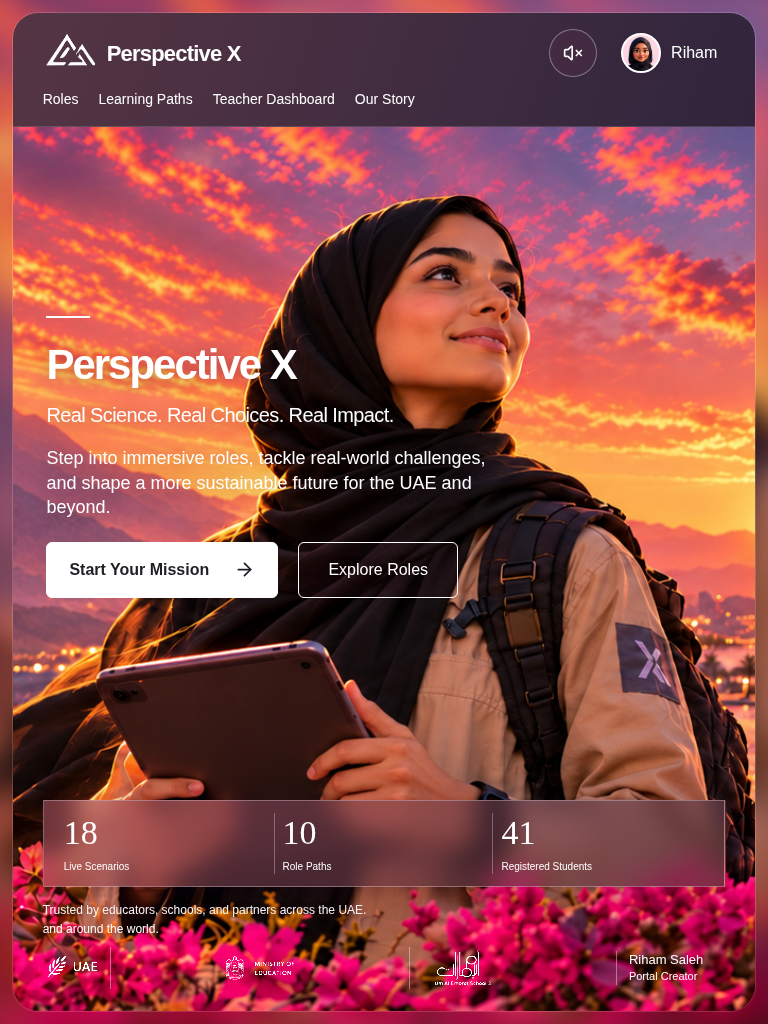
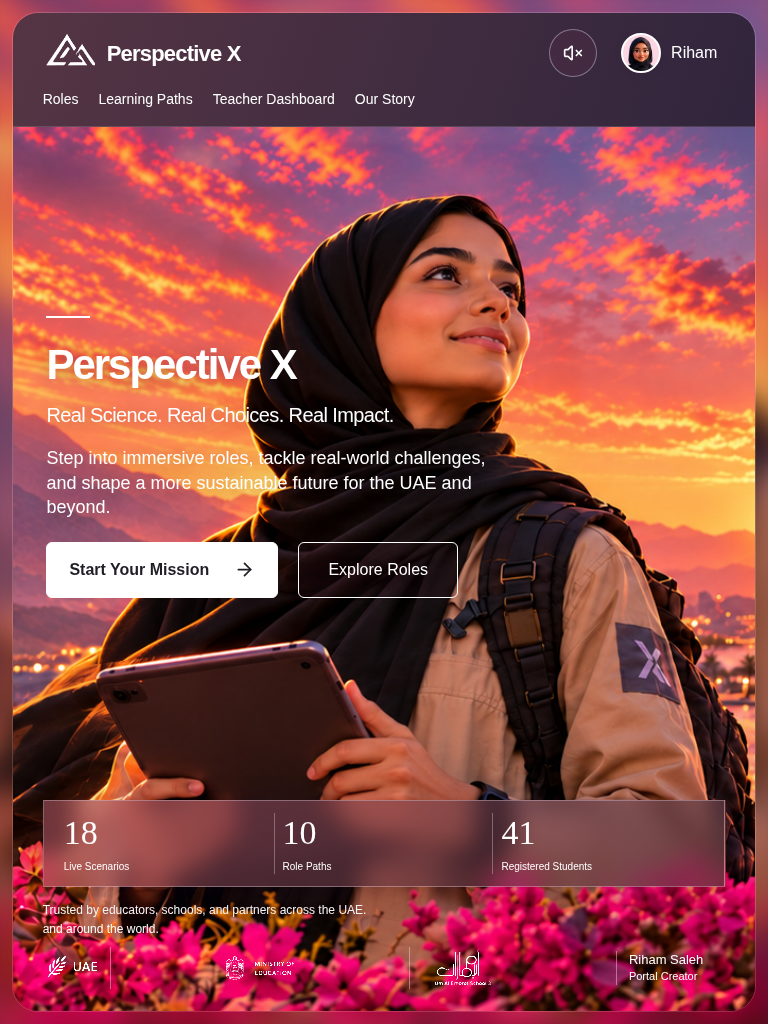
Clean remaining fine strands around the hijab and scarf

diff --git a/src/components/landing/homepage.css b/src/components/landing/homepage.css
@@ -55,7 +55,7 @@
   inset: -24px;
   z-index: -1;
   pointer-events: none;
-  background: url("/images/perspective/home-hijab-retouched.png") center 75% /
+  background: url("/images/perspective/home-hijab-clean.png") center 75% /
     cover no-repeat;
   filter: blur(16px);
 }
@@ -181,7 +181,7 @@
   min-height: 0;
   display: flex;
   flex-direction: column;
-  background: url("/images/perspective/home-hijab-retouched.png") center
+  background: url("/images/perspective/home-hijab-clean.png") center
     center/cover no-repeat;
 }
 .px-home .home-hero {

diff --git a/src/components/landing/homeReferenceScene.js b/src/components/landing/homeReferenceScene.js
@@ -1,7 +1,7 @@
 // Lossless, detail-restored photographic layer from the October 14 reference.
 // Conservative masks stay entirely in the sky, above the hijab, sun and buildings.
 export const HOME_REFERENCE_SCENE = {
-  url: "/images/perspective/home-hijab-retouched.png",
+  url: "/images/perspective/home-hijab-clean.png",
   source: { width: 1888, height: 833 },
   regions: [
     {

diff --git a/tests/cinematic-motion.spec.js b/tests/cinematic-motion.spec.js
@@ -458,7 +458,7 @@ test("leaving while the artwork is loading cancels late renderer initialization"
   const gate = new Promise((resolve) => {
     release = resolve;
   });
-  await page.route("**/home-hijab-retouched.png", async (route) => {
+  await page.route("**/home-hijab-clean.png", async (route) => {
     await gate;
     await route.continue();
   });

diff --git a/docs/homepage-retouch/README.md b/docs/homepage-retouch/README.md
@@ -1,22 +1,33 @@
-# Localized homepage flyaway cleanup
+# Homepage strand cleanup
 
-Removed the thin golden flyaway hair lines from the approved hijab artwork. The edit uses the image tool's cleaned result only inside two small, feathered selections beside the scarf and above/alongside the head. All pixels outside those selections are copied from the original photograph without alteration. The face, body, and tablet have additional explicit protection from the selections.
+The active homepage image is `public/images/perspective/home-hijab-clean.png`. It removes the remaining fine curls and shiny hair-like lines above the crown, beside the forehead and temple, over the back of the hijab, and across the lower scarf. The earlier broad flyaway cleanup is retained. Continuous light along actual fabric edges and the original cloth folds remain visible.
 
-- [Before detail](before-detail.png)
-- [After detail](after-detail.png)
-- [Retouch selection mask](selection-mask.png) — white permits editing; black preserves the original.
-- Homepage comparisons: [desktop before](before-home-desktop.png) / [after](../homepage-reference/home-1672x941.png), [tablet before](before-home-tablet.png) / [after](../homepage-reference/home-768x1024.png), [mobile before](before-home-mobile.png) / [after](../homepage-reference/home-390x844.png).
-- [All updated homepage screenshots](../homepage-reference/README.md)
+## Before and after
 
-The final image remains a lossless **1888 × 833** PNG. Exactly **70,569 of 1,572,704** pixels differ, all within the two selected areas. There are **zero** changed pixels outside the selections. The face, body, and tablet protection areas are pixel-identical. The new unit regression checks these constraints and bounds the permitted mask regions so that expanding a mask across the portrait or scene cannot silently pass.
+- [Head before](before-head-detail.png) / [head after](after-head-detail.png)
+- [Original broad flyaways](before-detail.png) / [current scarf detail](after-detail.png)
+- Homepage: [desktop before](before-home-desktop.png) / [after](../homepage-reference/home-1672x941.png), [tablet before](before-home-tablet.png) / [after](../homepage-reference/home-768x1024.png), [mobile before](before-home-mobile.png) / [after](../homepage-reference/home-390x844.png).
+- [All current homepage screenshots](../homepage-reference/README.md)
 
-The previous master and `public/images/perspective/home-cinematic.webp` remain unchanged. The new asset has a new filename so cached versions of the old artwork cannot hide the cleanup. Both the CSS background and existing cloud renderer use the same retouched image. Cloud masks, animation settings, soundtrack, layout, typography, branding, account details, navigation, and every other page are unchanged by this follow-up.
+## Exact preservation
+
+The image tool retouched close-ups of the head and scarf. Only selected corrections were composited onto the previous full photograph. The result remains a lossless **1888 × 833** PNG. In this correction, **88,055 of 1,572,704** pixels change relative to `home-hijab-retouched.png`. There are **zero** changes outside the selected areas and **zero** changes within the protected original face. The body and tablet are also protected by the regression checks.
+
+The face protection follows its actual outline; the earlier rectangular protection had also excluded nearby background containing faint strands. All original facial pixels are retained, while the nearby hair artifacts can now be cleaned. Additional selections remove fine lines lying over dark fabric without replacing the whole portrait.
+
+- [Current correction selections](remaining-strands-selection-mask.png)
+- [Protected original face](protected-face-mask.png)
+- [Head selections](head-selection-mask.png)
+- [Scarf selections](scarf-selection-mask.png)
+- [Earlier broad cleanup selections](selection-mask.png)
+
+Original images remain unchanged, including the previous masters and `public/images/perspective/home-cinematic.webp`. A new active filename prevents old cached artwork from hiding this correction. Both the CSS scene and existing cloud renderer use the same corrected photograph. This follow-up does not change cloud masks, animation settings, soundtrack, layout, typography, branding, account details, navigation, or any other page.
 
 ## Validation
 
 - Production build, lint, and typecheck passed.
-- All 19 unit tests passed, including exact pixel preservation and the existing original-artwork hash check.
-- All 69 existing browser regression tests passed for cloud motion, viewport fit, navigation, soundtrack, account behavior, Our Story, and approved internal pages.
-- Browser screenshots use synthetic account fixtures; live authenticated Supabase QA remains unverified.
+- All 20 unit tests passed, including both pixel-preservation checks, protected face/body/tablet checks, permitted selection bounds, and the original-artwork hash check.
+- All 69 browser regression tests passed for cloud motion, viewport fit, navigation, soundtrack, account behavior, Our Story, and approved internal pages.
+- Browser screenshots use synthetic accounts; live authenticated Supabase QA remains unverified.
 
-Changes remain on the existing development branch and pull request for Preview review. No production deployment is authorized by this follow-up.
+The changes are on the development branch and existing pull request for Preview review. Production is unchanged.

diff --git a/docs/homepage-reference/README.md b/docs/homepage-reference/README.md
@@ -19,14 +19,14 @@ Captured from the production build at 100% browser zoom, with reduced motion and
 
 ## Artwork quality and display resolution
 
-The restored scenic master is a lossless 1888 × 833 PNG with refined cloud, landscape, cloth, and flower detail. The active version also includes a [localized flyaway cleanup](../homepage-retouch/README.md) that preserves every pixel outside two small retouch selections, with explicit protection for the face, body, and tablet. This is the image tool's output resolution; it is not a native 4K photograph. Text, controls, and layout remain native browser elements that render at the display's pixel density. The original 1448 × 1086 approved PNG supplies the exact branding marks without additional lossy compression. Original artwork files remain available.
+The restored scenic master is a lossless 1888 × 833 PNG with refined cloud, landscape, cloth, and flower detail. The active version also includes a [localized flyaway cleanup](../homepage-retouch/README.md) that preserves every pixel outside the localized head/scarf corrections, with explicit protection for the original face, body, and tablet. This is the image tool's output resolution; it is not a native 4K photograph. Text, controls, and layout remain native browser elements that render at the display's pixel density. The original 1448 × 1086 approved PNG supplies the exact branding marks without additional lossy compression. Original artwork files remain available.
 
 The cloud layer now uses up to 2× desktop pixel density instead of the previous 1.25× cap, with an 8.3-million-pixel limit. This avoids a softer animated overlay on Retina displays while keeping allocations bounded. The 4K screenshot demonstrates viewport fit and interface rendering, not additional native photographic pixels.
 
 ## Validation
 
 - Production build, ESLint, and TypeScript checks passed.
-- 19 unit tests passed.
+- 20 unit tests passed.
 - 69 affected browser tests passed, covering viewport fit, signed-in account details, soundtrack playback and cross-tab ownership, cinematic motion and static fallbacks, Our Story, and the four previously approved internal pages.
 - The high-DPR regression verifies a 2× desktop animation buffer with a bounded 8.3-million-pixel allocation and safe graphics fallback. Mobile keeps its existing 1× animation budget.
 - Desktop, tablet, phone, Retina, and 4K viewport captures passed with no scrolling or page errors.
